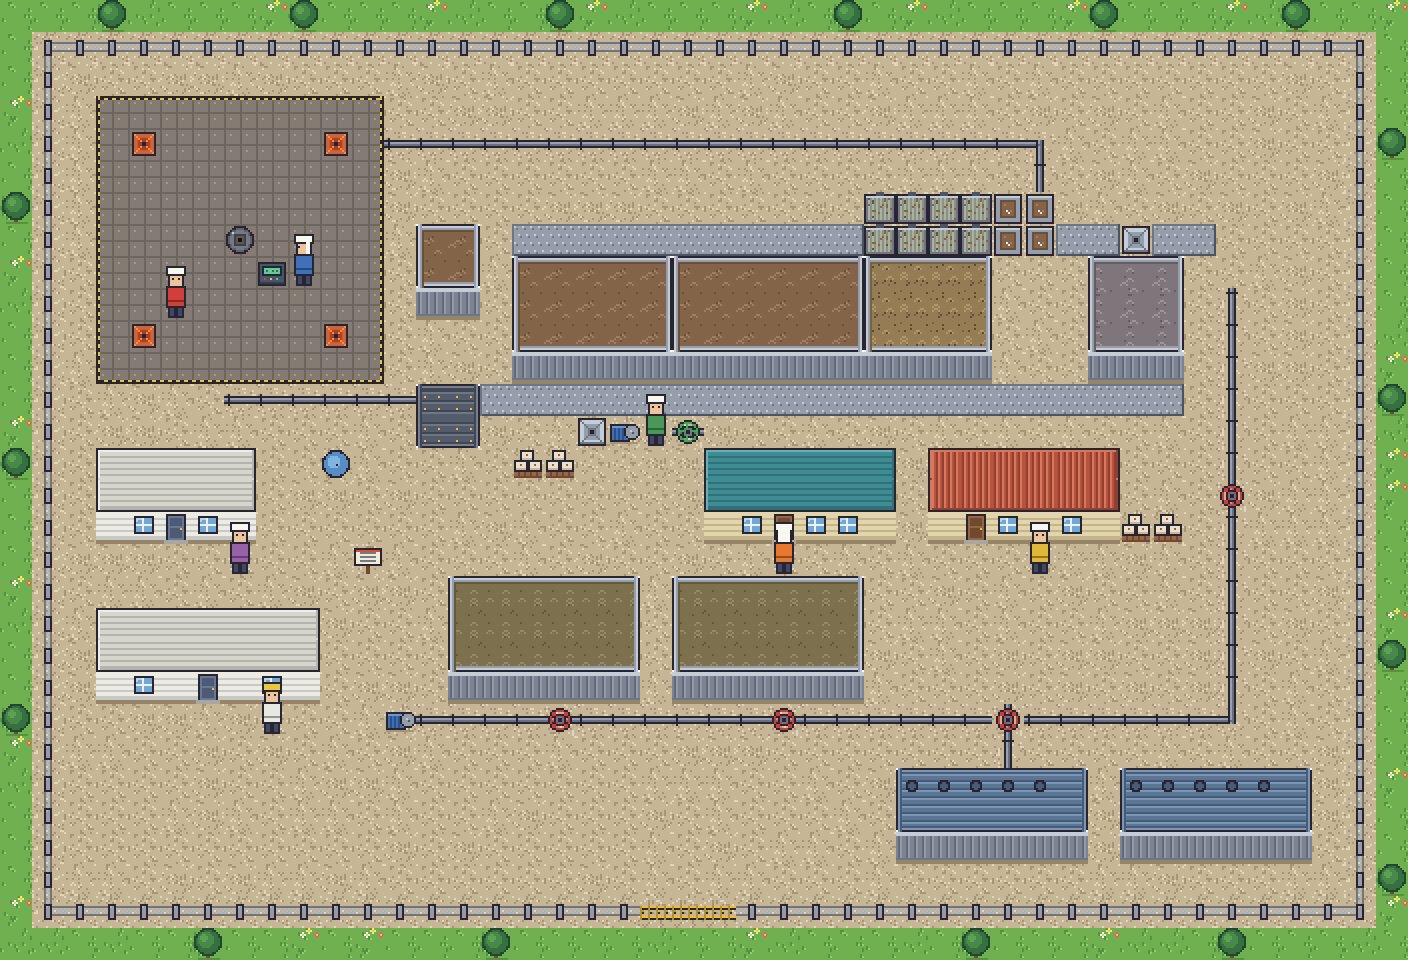
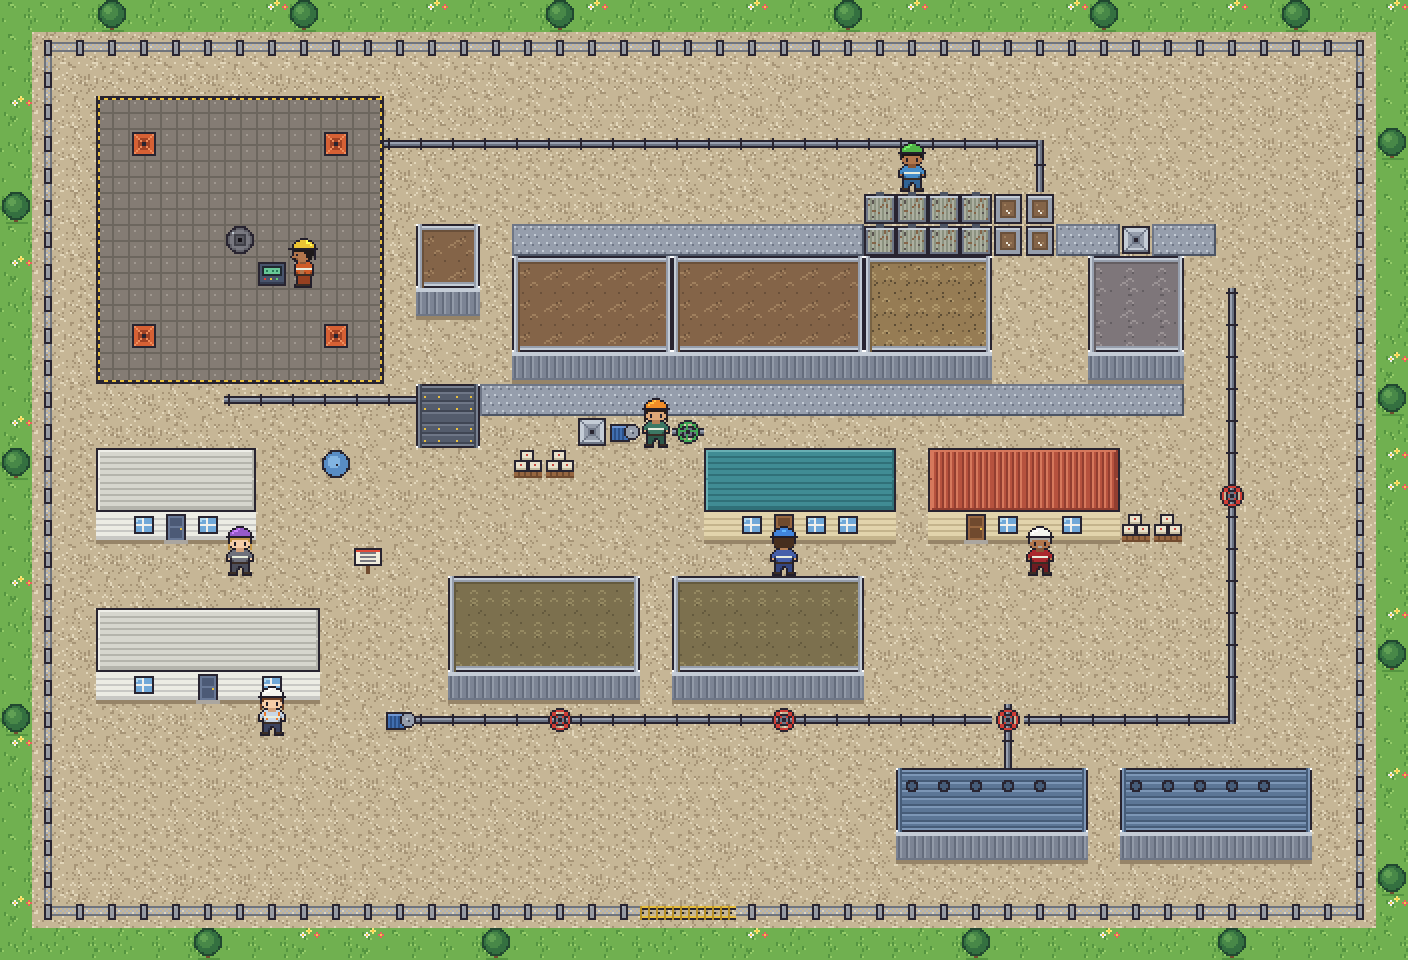
Integra el overworld y actualiza la captura con los personajes
El mapa de la locación, la caja de diálogo y los NPCs con sus sprites.
docs/.gdignore evita que Godot importe las imágenes de la documentación.
CLAUDE.md queda al día con la segunda ronda.

Claude-Session: https://claude.ai/code/session_016Na4mabTA4dtb8mT6oYrX1

diff --git a/CLAUDE.md b/CLAUDE.md
@@ -2,7 +2,7 @@
 
 Juego 2D pixelado en **Godot** donde el jugador es un **ingeniero de fluidos de perforación**. Objetivo: que el autor (que trabaja en la industria) aprenda manejo de tanques, diagnóstico de propiedades y tratamiento de contaminaciones.
 
-**Estado actual: simulación base completa, sin interfaz.** Proyecto Godot 4.7.2 con: química del lodo con equilibrio ácido-base (Tabla 4 entera), 7 contaminantes, 21 productos con dosis del manual, tanques y paso del tiempo, 17 pruebas de laboratorio y 4 observaciones como datos, 19 reglas con explicación y el programa de CAIMÁN-3. 135 pruebas pasando. Resumen en `simulation-logic.md` §12.7. El siguiente paso es la presentación (overworld) y lo que falta de la simulación: perforación, control de sólidos y eventos. Estructura y cómo correr las pruebas en `README.md`; estado de la implementación en `simulation-logic.md` §12.6.
+**Estado actual: simulación completa del turno y overworld caminable, todavía sin conectar entre sí.** Proyecto Godot 4.7.2 con: química del lodo con equilibrio ácido-base (Tabla 4 entera), 7 contaminantes, 21 productos, tanques y tiempo, 17 pruebas de laboratorio y 4 observaciones, 19 reglas con explicación, programa de CAIMÁN-3; perforación con formaciones y control de sólidos; eventos guionados y PVT; turno de 12 h con acciones, encuellador, inventario, reporte diario y noche simulada (`sim/operacion_pozo.gd` los engancha). Overworld de la locación (`game/overworld/`) con 7 personajes (`docs/personajes.md`). 221 pruebas pasando. Resumen en `simulation-logic.md` §12.7–12.8. Siguiente paso: unir el overworld al turno (señales `interactuado`/`caminado` → acciones y reloj) y las pantallas de laboratorio, tanques y reporte. Estructura y cómo correr las pruebas en `README.md`.
 
 ## Mapa de documentos
 
@@ -55,9 +55,9 @@ Leer en este orden antes de proponer nada:
 ## Próximos pasos
 
 1. ~~Esqueleto del proyecto Godot 4.7.2~~ ✅ hecho. Pruebas: `godot --headless --path . --script res://tests/run_tests.gd`.
-2. Modelo de datos según `simulation-logic.md` §12: ✅ estado del lodo, contaminantes, productos, tanque y tiempo, pruebas de laboratorio, observaciones, reglas, programa de sección (§12.7). Faltan: conexiones y layout del taladro, perforación en el paso de simulación (entrada de sólidos, consumo de volumen), control de sólidos, eventos.
+2. Modelo de datos según `simulation-logic.md` §12: ✅ estado del lodo, contaminantes, productos, tanque y tiempo, pruebas, observaciones, reglas, programa (§12.7); perforación, control de sólidos, eventos, PVT, turno y reporte (§12.8). Falta: layout de compartimientos y conexiones del taladro en la simulación (las válvulas del mapa aún no mueven lodo).
 3. Fórmulas reales de `mud-engineer-reference.md`: ✅ las de tanque, volumen, presión, reología, dosis y píldoras están en `sim/formulas.gd` con pruebas. Faltan las que dependan del modelo de estado.
-4. Primer vertical slice: sección superficial del pozo CAIMÁN-3 — pruebas básicas, densificar, diluir.
+4. Primer vertical slice: sección superficial del pozo CAIMÁN-3 — pruebas básicas, densificar, diluir. Falta la interfaz: unir `game/overworld/overworld.gd` (señales) con `sim/turno.gd`, caja de laboratorio, vista de tanques y reporte.
 
 **Pendientes de investigación:**
 - Procedimiento de **desplazamiento / cambio de fluido**: secuencia en `rig-tank-system.md` §5, ya validada en parte por el autor. Quedan abiertos el criterio para desviar retornos y la composición del circuito corto (§7).
